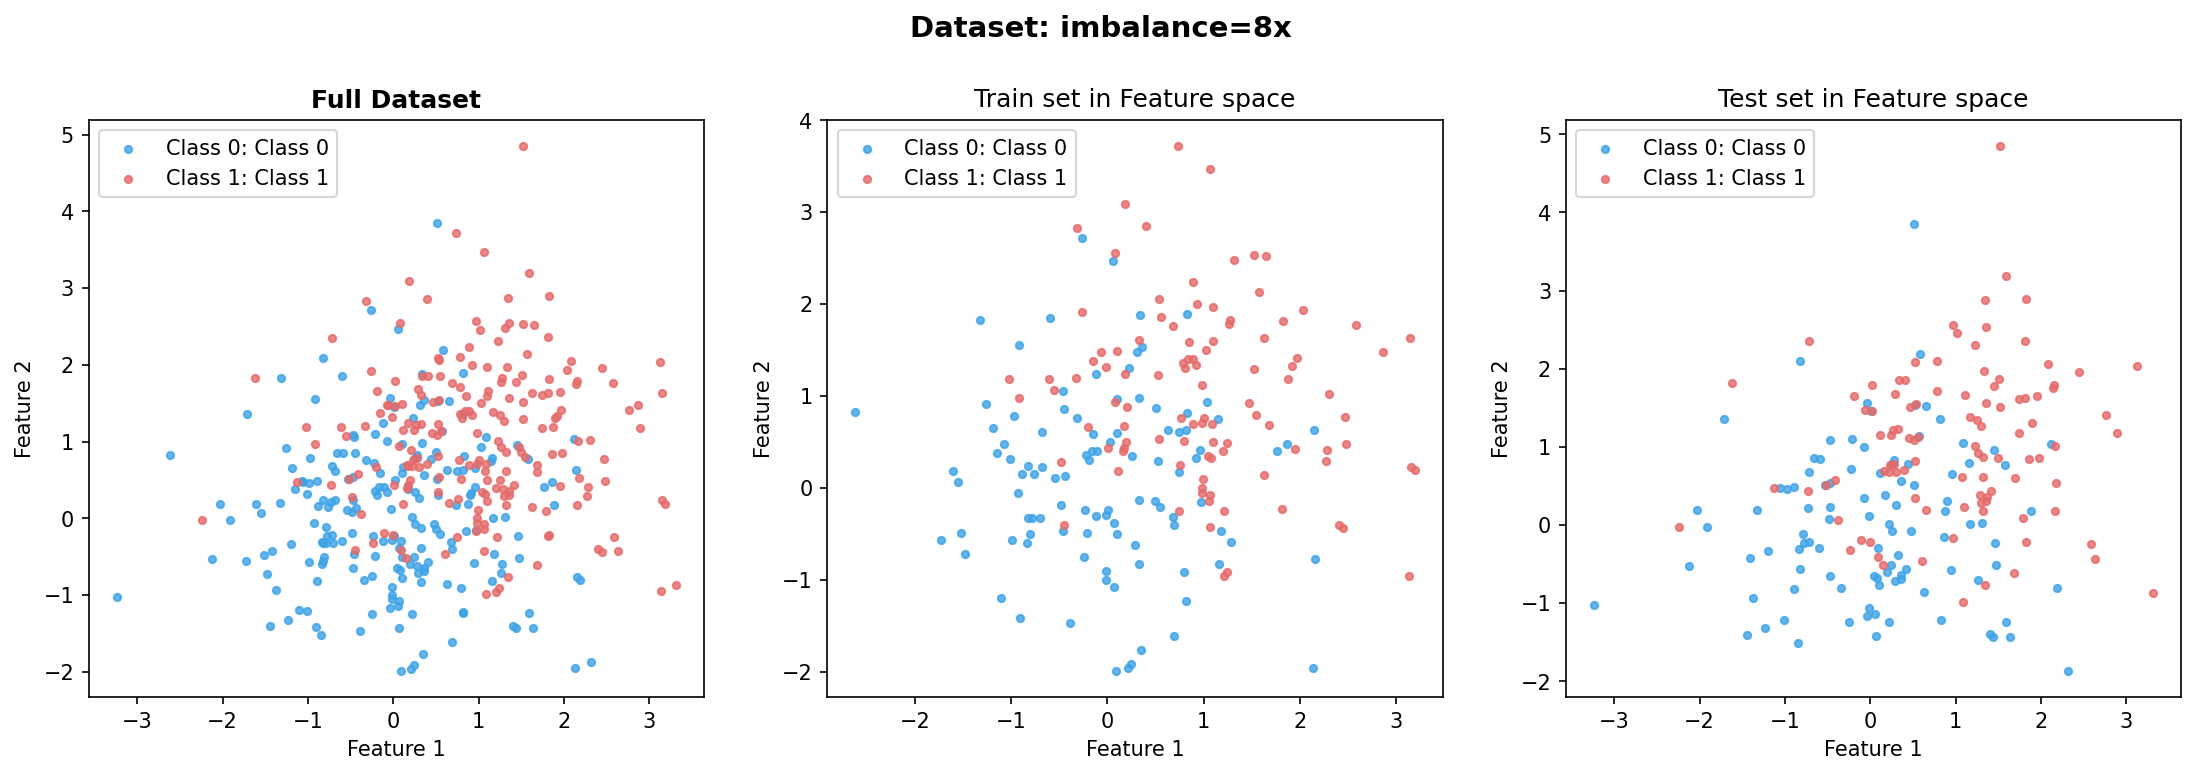
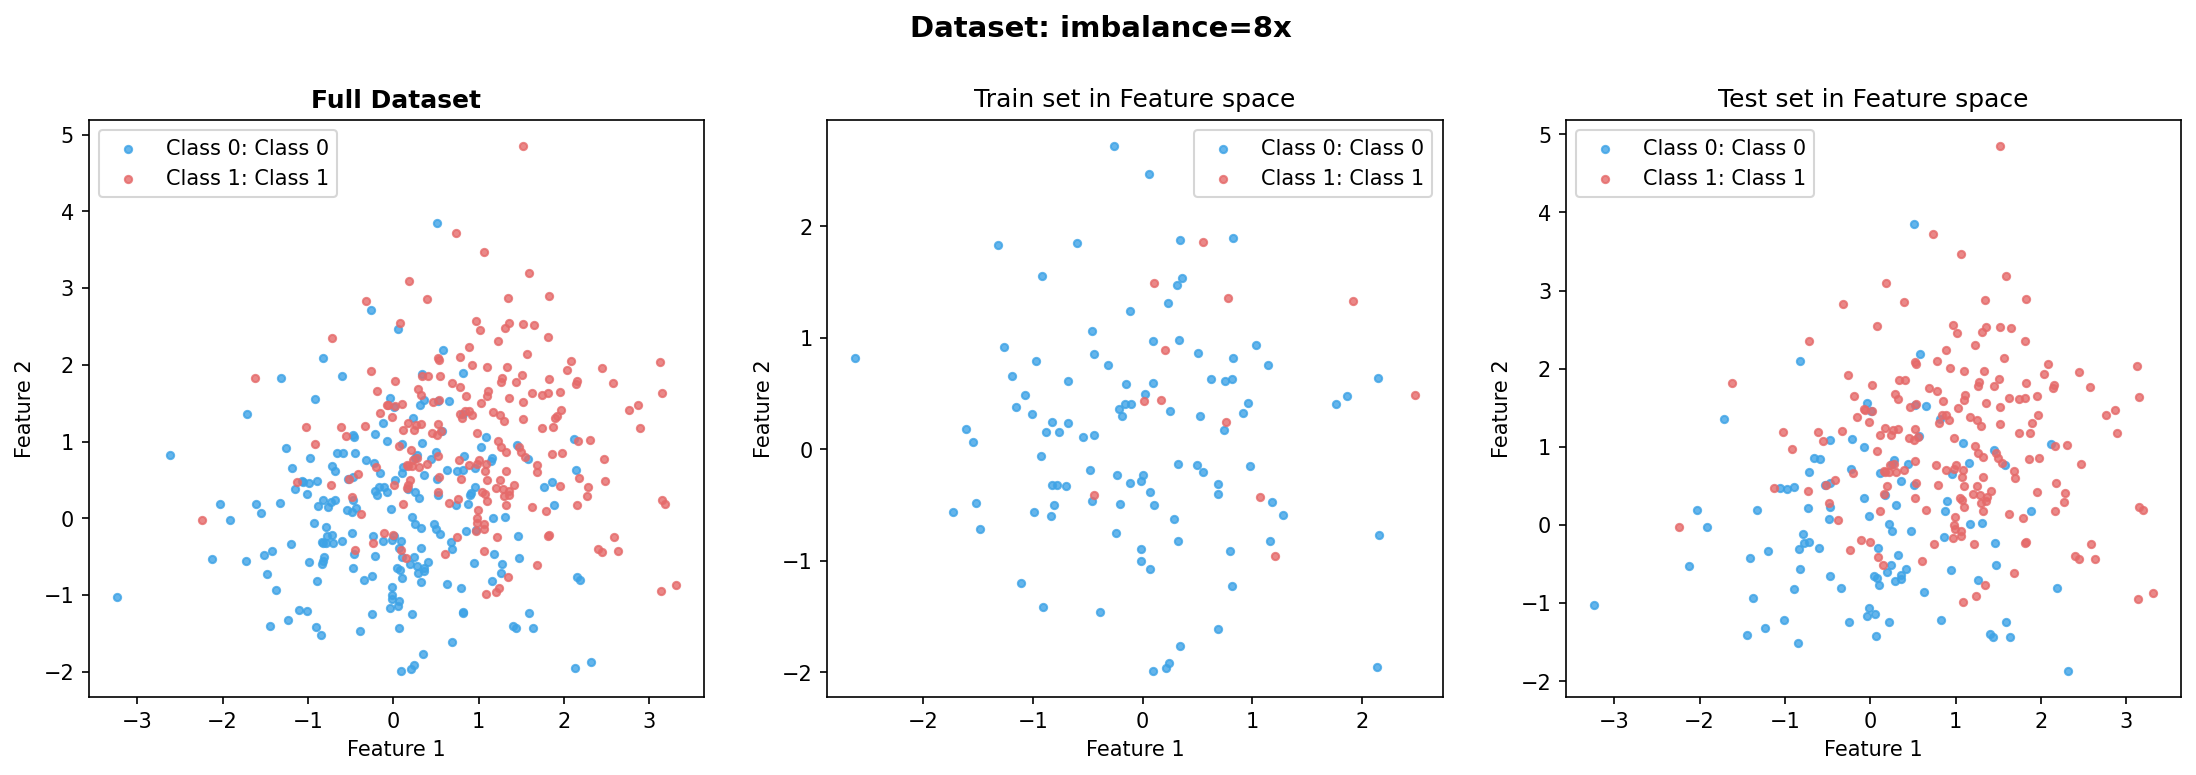
fix bug in getting train split as reference

diff --git a/data_complexity/metrics.py b/data_complexity/metrics.py
@@ -54,10 +54,48 @@ class complexity_metrics:
 
     def get_all_metrics_scalar(self):
         all_metrics = {}
-        all_metrics.update(self.feature_overlap_scalar())
-        all_metrics.update(self.instance_overlap_scalar())
-        all_metrics.update(self.structural_overlap_scalar())
-        all_metrics.update(self.classical_measures_scalar())
+
+        # Try each category separately and continue if one fails
+        try:
+            all_metrics.update(self.feature_overlap_scalar())
+        except Exception as e:
+            # If a category fails, add NaN for its metrics
+            print(f"Warning: Feature overlap metrics failed: {e}")
+            all_metrics.update({
+                'F1': np.nan, 'F1v': np.nan, 'F2': np.nan,
+                'F3': np.nan, 'F4': np.nan, 'IN': np.nan
+            })
+
+        try:
+            all_metrics.update(self.instance_overlap_scalar())
+        except Exception as e:
+            print(f"Warning: Instance overlap metrics failed: {e}")
+            # Add NaN for instance overlap metrics
+            instance_names = ['R-value', 'Raug', 'degOver', 'N3', 'SI', 'N4',
+                            'kDN', 'D3', 'CM', 'wCM', 'dwCM',
+                            'Borderline Examples', 'IPoints']
+            for name in instance_names:
+                all_metrics[name] = np.nan
+
+        try:
+            all_metrics.update(self.structural_overlap_scalar())
+        except Exception as e:
+            print(f"Warning: Structural overlap metrics failed: {e}")
+            # Add NaN for structural overlap metrics
+            structural_names = ['N1', 'T1', 'Clust', 'ONB', 'LSCAvg',
+                              'DBC', 'N2', 'NSG', 'ICSV']
+            for name in structural_names:
+                all_metrics[name] = np.nan
+
+        try:
+            all_metrics.update(self.classical_measures_scalar())
+        except Exception as e:
+            print(f"Warning: Classical measures failed: {e}")
+            # Add NaN for classical measures
+            classical_names = ['MRCA', 'C1', 'C2', 'Purity', 'Neighbourhood Separability']
+            for name in classical_names:
+                all_metrics[name] = np.nan
+
         return all_metrics
     
     def get_all_metrics_full(self):

diff --git a/data_complexity/model_experiments/experiment.py b/data_complexity/model_experiments/experiment.py
@@ -7,6 +7,7 @@ performance. All experiments use train/test splits: complexity is computed
 on both splits independently, and ML models are trained on the training set
 and evaluated on both.
 """
+import copy
 from dataclasses import dataclass, field
 from enum import Enum, auto
 from pathlib import Path
@@ -490,7 +491,9 @@ class Experiment:
 
             for seed_i in range(cv_folds):
                 # Get fresh copy of data for each seed
-                full_data = dataset.get_data_dict()
+                # IMPORTANT: Must deep copy because proportional_split mutates in place
+                # and get_data_dict() returns a reference, not a copy
+                full_data = copy.deepcopy(dataset.get_data_dict())
 
                 # Use dataset's built-in proportional_split with minority_reduce_scaler
                 # proportional_split mutates full_data to be train and returns test
